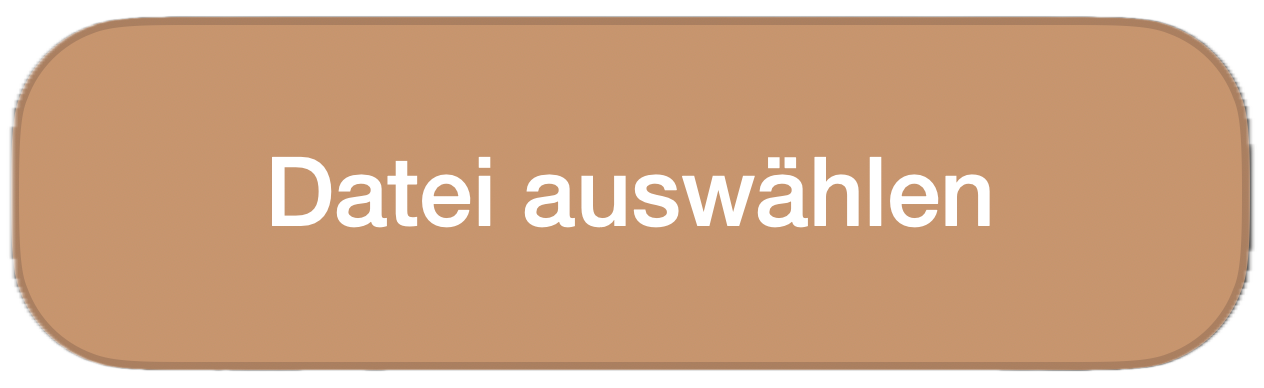
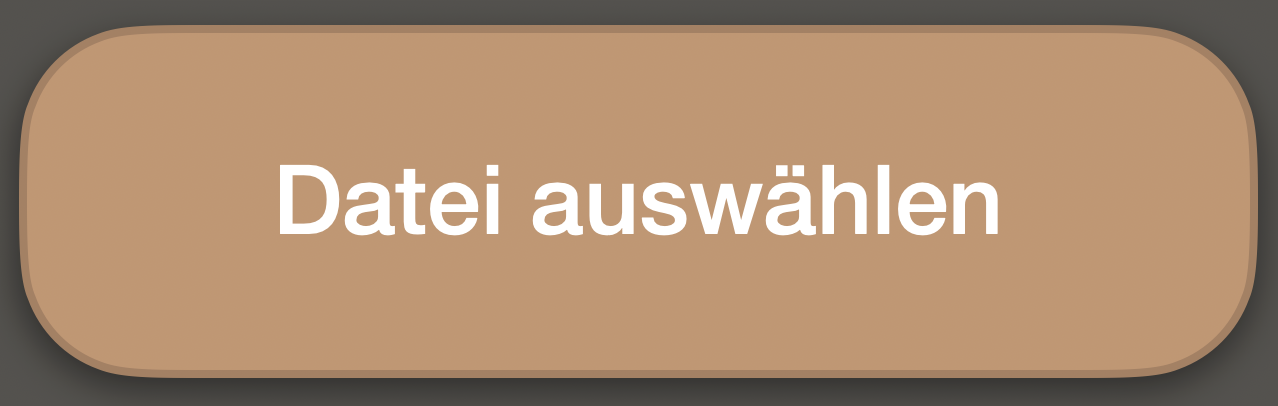
q

diff --git a/datenstruktur/Interface.py b/datenstruktur/Interface.py
@@ -11,11 +11,11 @@ def choose_file():
     if file_path:
         messagebox.showinfo("Datei ausgewählt", f"Datei: {file_path}")
 
-# Funktion für "Datei ablegen"-Button
+# Funktion für Drag-and-Drop-Feld (nur als Platzhalter)
 def drop_file():
-    messagebox.showinfo("Datei ablegen", "Funktion 'Datei ablegen' ist noch nicht implementiert.")
+    messagebox.showinfo("Drag-and-Drop", "Datei abgelegt!")
 
-# Funktion zum Anpassen der Größe und Position von Canvas und Buttons
+# Funktion zum Anpassen der Größe und Position von Canvas, Drag-and-Drop-Feld und Buttons
 def resize_elements(event):
     # Neue Fenstergröße
     width, height = root.winfo_width(), root.winfo_height()
@@ -29,24 +29,27 @@ def resize_elements(event):
     canvas.itemconfig(bg_image_id, image=bg_photo_resized)
     canvas.image = bg_photo_resized  # Verhindert das Entfernen des Bildes durch Garbage Collection
 
-    # Buttons dynamisch skalieren und positionieren
-    btn_width = int(width * 0.15)  # Buttons sollen 15% der Fensterbreite haben
-    btn_height = int(height * 0.07)  # Buttons sollen 7% der Fensterhöhe haben
+    # Position und Größe des Drag-and-Drop-Feldes
+    drop_zone_width = int(width * 0.6)  # 60% der Fensterbreite
+    drop_zone_height = int(height * 0.2)  # 20% der Fensterhöhe
+    drop_zone_x = int(width * 0.2)  # Horizontal zentriert
+    drop_zone_y = int(height * 0.6)  # Im unteren Drittel
 
-    # Buttons neu skalieren
+    # Anpassen des Drag-and-Drop-Rechtecks
+    canvas.coords(drop_zone_rect, drop_zone_x, drop_zone_y,
+                  drop_zone_x + drop_zone_width, drop_zone_y + drop_zone_height)
+    
+    # Position und Größe des "Datei auswählen"-Buttons
+    btn_width = int(drop_zone_width * 0.3)  # 30% der Breite der Drag-and-Drop-Zone
+    btn_height = int(drop_zone_height * 0.5)  # 50% der Höhe der Drag-and-Drop-Zone
+    btn_x = drop_zone_x + (drop_zone_width - btn_width) // 2
+    btn_y = drop_zone_y + (drop_zone_height - btn_height) // 2
+
     resized_choose_file = choose_file_image.resize((btn_width, btn_height), Image.Resampling.LANCZOS)
     choose_file_photo_resized = ImageTk.PhotoImage(resized_choose_file)
     choose_file_btn.config(image=choose_file_photo_resized)
     choose_file_btn.image = choose_file_photo_resized
-
-    resized_drop_file = drop_file_image.resize((btn_width, btn_height), Image.Resampling.LANCZOS)
-    drop_file_photo_resized = ImageTk.PhotoImage(resized_drop_file)
-    drop_file_btn.config(image=drop_file_photo_resized)
-    drop_file_btn.image = drop_file_photo_resized
-
-    # Buttons neu positionieren
-    choose_file_btn.place(x=int(width * 0.42), y=int(height * 0.6))
-    drop_file_btn.place(x=int(width * 0.42), y=int(height * 0.7))
+    choose_file_btn.place(x=btn_x, y=btn_y)
 
 # Hauptfenster erstellen
 root = tk.Tk()
@@ -63,16 +66,15 @@ canvas = tk.Canvas(root)
 canvas.pack(fill="both", expand=True)
 bg_image_id = canvas.create_image(0, 0, image=bg_photo, anchor="nw")
 
-# Button-Bilder laden
-choose_file_image = Image.open("h:\\Downloads\\datei auswhlen.png")
-drop_file_image = Image.open("h:\\Downloads\\preview_datei ablegen.png")
+# Drag-and-Drop-Feld als Rechteck hinzufügen
+drop_zone_rect = canvas.create_rectangle(0, 0, 0, 0, fill="#d9d9d9", outline="#aaa", width=2)
 
-# Buttons erstellen
+# Button-Bild für "Datei auswählen"
+choose_file_image = Image.open("h:\\Downloads\\datei auswhlen.png")
+
+# Klickbarer "Datei auswählen"-Button innerhalb des Drag-and-Drop-Feldes
 choose_file_btn = tk.Button(
-    root, command=choose_file, borderwidth=0, bg="#2e2a27", activebackground="#2e2a27"
-)
-drop_file_btn = tk.Button(
-    root, command=drop_file, borderwidth=0, bg="#2e2a27", activebackground="#2e2a27"
+    root, command=choose_file, borderwidth=0, bg="#d9d9d9", activebackground="#c9c9c9"
 )
 
 # Eventlistener für Fenstergröße
